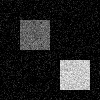
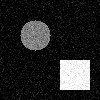
updated the code

diff --git a/Q2.py b/Q2.py
@@ -3,48 +3,64 @@ import cv2
 import matplotlib.pyplot as plt
 import os
 
-def region_growing(img, seed, thresh=20):
-    output = np.zeros_like(img)
+
+def region_growing(img, seed_point, threshold=20):
+    height, width = img.shape
+    segmented = np.zeros_like(img)
     visited = np.zeros_like(img, dtype=bool)
-    h, w = img.shape
-    seed_val = img[seed]
-    stack = [seed]
+
+    seed_x, seed_y = seed_point
+    seed_value = int(img[seed_x, seed_y])
+    stack = [(seed_x, seed_y)]
+
     while stack:
         x, y = stack.pop()
         if visited[x, y]:
             continue
+
         visited[x, y] = True
-        if abs(int(img[x, y]) - int(seed_val)) <= thresh:
-            output[x, y] = 255
-            for dx, dy in [(-1,0),(1,0),(0,-1),(0,1)]:
-                nx, ny = x+dx, y+dy
-                if 0 <= nx < h and 0 <= ny < w and not visited[nx, ny]:
-                    stack.append((nx, ny))
-    return output
+        pixel_value = int(img[x, y])
 
-# Load the noisy image from previous step
-noisy_img = cv2.imread('images/noisy.png', cv2.IMREAD_GRAYSCALE)
+        if abs(pixel_value - seed_value) <= threshold:
+            segmented[x, y] = 255
+            for dx in [-1, 0, 1]:
+                for dy in [-1, 0, 1]:
+                    if dx == 0 and dy == 0:
+                        continue
+                    nx, ny = x + dx, y + dy
+                    if 0 <= nx < height and 0 <= ny < width and not visited[nx, ny]:
+                        stack.append((nx, ny))
 
-# Choose a seed inside object 1 (e.g., (25,25))
-seed_point = (25, 25)
-region = region_growing(noisy_img, seed_point, thresh=25)
+    return segmented
+
+
+# Load the original image generated by Q1.py
+import cv2
+original_img = cv2.imread('images/original.png', cv2.IMREAD_GRAYSCALE)
+if original_img is None:
+    raise FileNotFoundError("images/original.png not found. Please run Q1.py first.")
+
+# Use seed point inside object 1
+seed = (25, 25)
+region_result = region_growing(original_img, seed, threshold=20)
 
 # Save result
 os.makedirs('images', exist_ok=True)
-cv2.imwrite('images/region_grown.png', region)
+cv2.imwrite('images/region_grown.png', region_result)
 
-# Visualization (optional)
-plt.figure(figsize=(10,4))
-plt.subplot(1,2,1)
-plt.title('Noisy Image')
-plt.imshow(noisy_img, cmap='gray')
+# Display result
+plt.figure(figsize=(8, 4))
+
+plt.subplot(1, 2, 1)
+plt.title("Original Image")
+plt.imshow(original_img, cmap='gray')
 plt.axis('off')
 
-plt.subplot(1,2,2)
-plt.title('Region Grown')
-plt.imshow(region, cmap='gray')
+plt.subplot(1, 2, 2)
+plt.title("Region Grown")
+plt.imshow(region_result, cmap='gray')
 plt.axis('off')
 
 plt.tight_layout()
 plt.savefig('images/region_growing_results.png')
-plt.show() 
+plt.show()

diff --git a/Q1.py b/Q1.py
@@ -6,19 +6,27 @@ import os
 # Create output directory
 os.makedirs('images', exist_ok=True)
 
-# Create a synthetic image
-img = np.zeros((100, 100), dtype=np.uint8)
-img[20:50, 20:50] = 100  # Object 1
-img[60:90, 60:90] = 200  # Object 2
+# Create a synthetic image with 3 pixel levels (background, object 1, object 2)
+img = np.zeros((100, 100), dtype=np.uint8) # Background
+# Object 1: Circle
+cv2.circle(img, (35, 35), 15, 128, -1)  # Object 1 as circle
+# Object 2: Square
+img[60:90, 60:90] = 255  # Object 2 as square
+
 
 # Add Gaussian noise
 mean = 0
-sigma = 20
-gauss = np.random.normal(mean, sigma, img.shape).astype(np.int16)
-noisy_img = np.clip(img.astype(np.int16) + gauss, 0, 255).astype(np.uint8)
+stddev = 20
+noise = np.random.normal(mean, stddev, img.shape).astype(np.int16)
+noisy_img = np.clip(img.astype(np.int16) + noise, 0, 255).astype(np.uint8)
 
-# Otsu's thresholding
-_, otsu_thresh = cv2.threshold(noisy_img, 0, 255, cv2.THRESH_BINARY + cv2.THRESH_OTSU)
+
+# Optional: Smooth it
+smoothed = cv2.GaussianBlur(noisy_img, (5, 5), 0)
+
+# Apply Otsu's threshold
+_, otsu_thresh = cv2.threshold(smoothed, 0, 255, cv2.THRESH_BINARY + cv2.THRESH_OTSU)
+
 
 # Save images
 cv2.imwrite('images/original.png', img)
@@ -26,22 +34,19 @@ cv2.imwrite('images/noisy.png', noisy_img)
 cv2.imwrite('images/otsu_threshold.png', otsu_thresh)
 
 # Visualization (optional)
-plt.figure(figsize=(10,4))
-plt.subplot(1,3,1)
-plt.title('Original')
+plt.figure(figsize=(12, 4))
+plt.subplot(1, 3, 1)
+plt.title("Original")
 plt.imshow(img, cmap='gray')
-plt.axis('off')
 
-plt.subplot(1,3,2)
-plt.title('Noisy')
+plt.subplot(1, 3, 2)
+plt.title("Noisy")
 plt.imshow(noisy_img, cmap='gray')
-plt.axis('off')
 
-plt.subplot(1,3,3)
-plt.title('Otsu Threshold')
+plt.subplot(1, 3, 3)
+plt.title("Otsu Result")
 plt.imshow(otsu_thresh, cmap='gray')
-plt.axis('off')
 
 plt.tight_layout()
 plt.savefig('images/otsu_results.png')
-plt.show() 
+plt.show()
